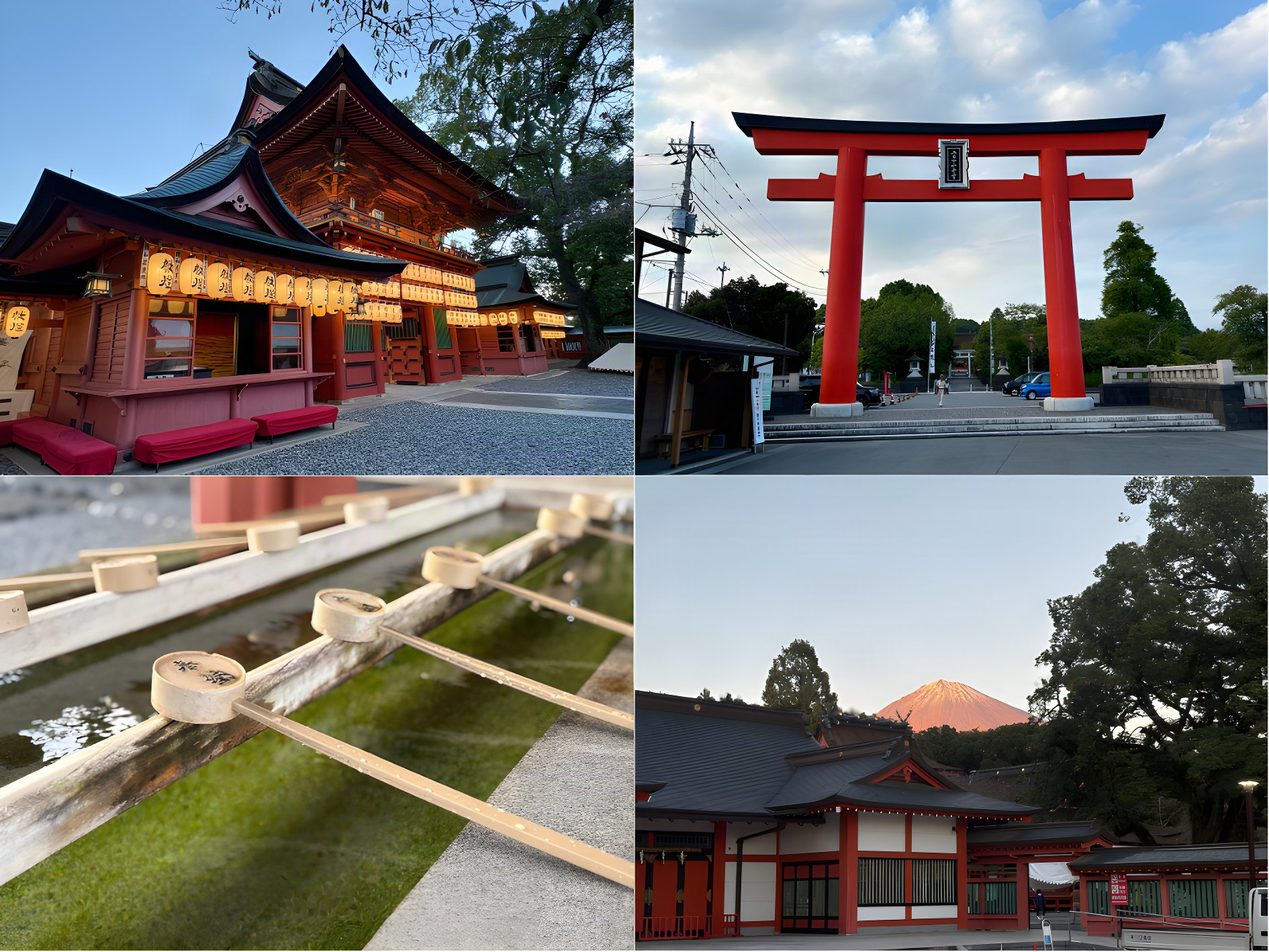
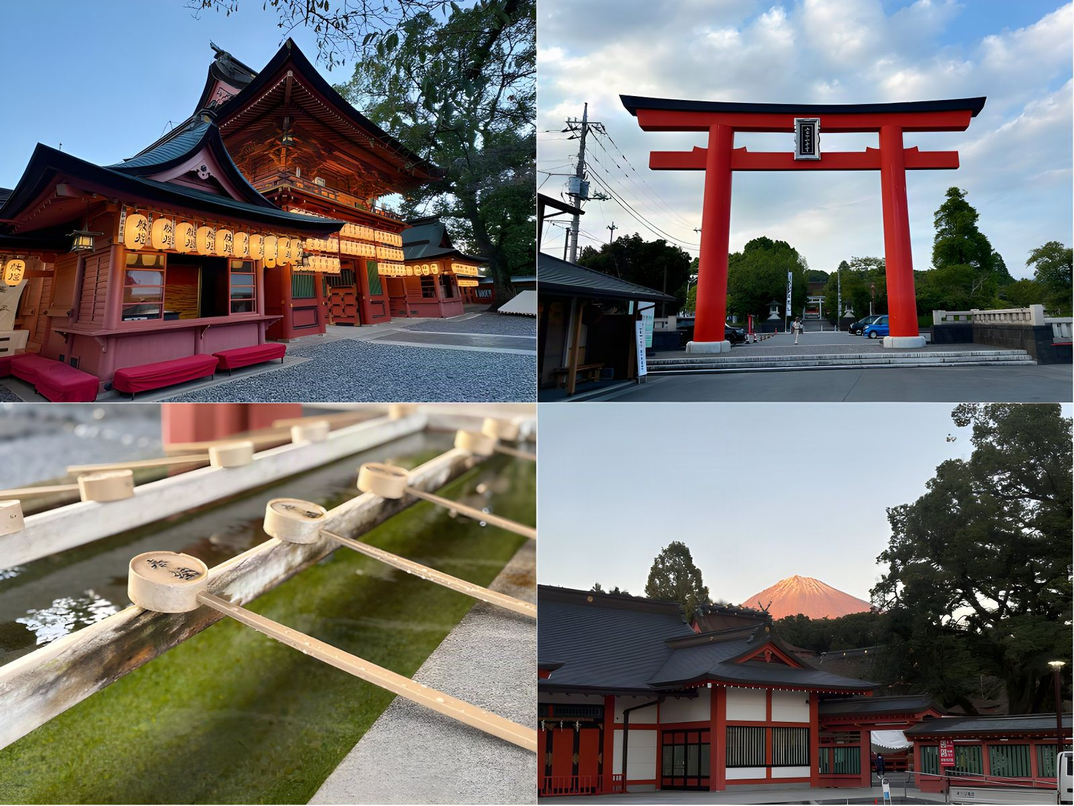
Optimize images: yakisoba photo PNG→WebP (1.49MB→78KB), resize shrine photo, drop unreferenced files
- culture/02_yakisoba: photo stored as PNG, converted to WebP q80 and
  group-tour.html updated (only remaining reference)
- culture/01_shrine.jpg: 1890px→1600px, q80 progressive (575KB→349KB)
- removed views/01_bridge.jpeg + 2 model-itinerary PNGs (~4MB total,
  referenced by nothing in the tracked tree)

diff --git a/group-tour.html b/group-tour.html
@@ -228,7 +228,7 @@ src="https://www.facebook.com/tr?id=991295620485360&ev=PageView&noscript=1"
           <figcaption>Shiraito Falls — UNESCO World Heritage water curtains</figcaption>
         </figure>
         <figure>
-          <img src="images/culture/02_yakisoba.png" alt="Award-winning yakisoba" loading="lazy">
+          <img src="images/culture/02_yakisoba.webp" alt="Award-winning yakisoba" loading="lazy">
           <figcaption>Award-winning Fujinomiya yakisoba · ~¥900</figcaption>
         </figure>
       </div>
